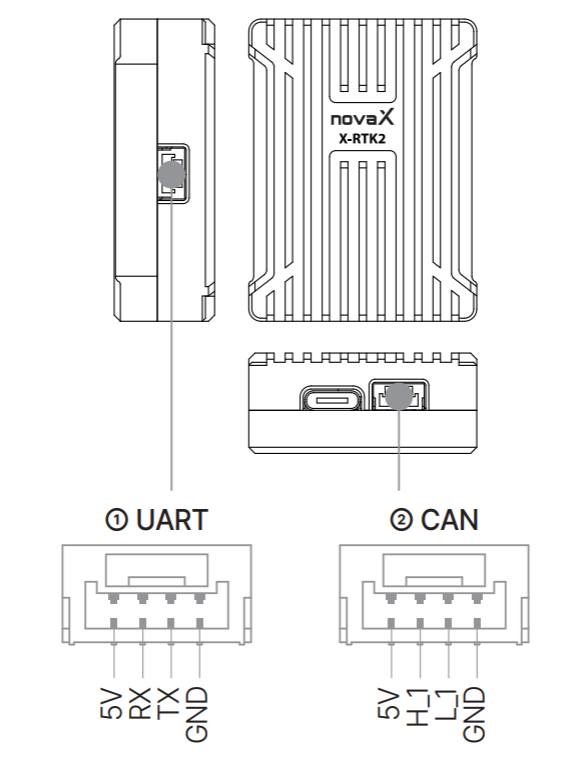
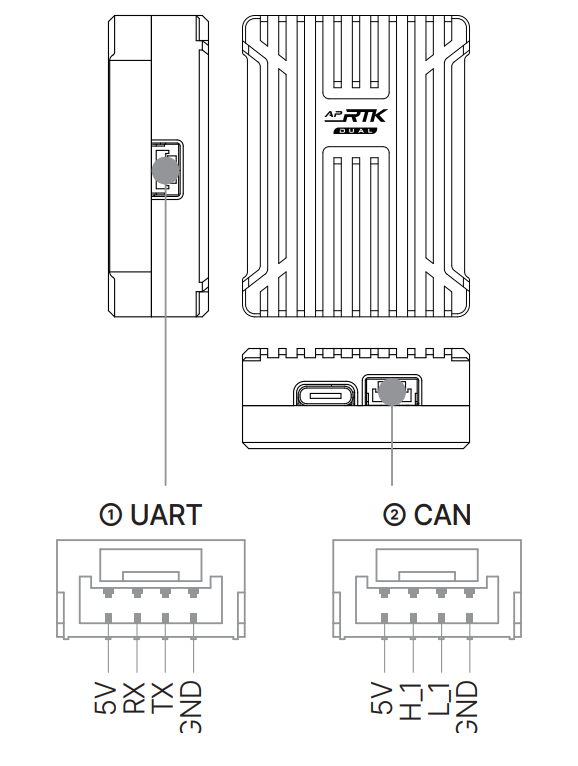
content(AP-RTK dual): 제품·핀아웃·설정 이미지 교체
- 메인 제품사진: AP-RTK dual 기기 3D 렌더(배경투명)로 교체
  (image: gnss_X_RTK2.png -> gnss_AP-RTK-dual_device.png)
- 핀아웃: UART(5V/RX/TX/GND)·CAN(5V/H/L/GND) 신규 도면으로 교체
- 설정 이미지: RTK+FC+안테나 합성 삽화를 둘로 분할
  · 위쪽 = 안테나 배치/듀얼안테나 헤딩 -> antenna-setup
  · 아래쪽 = 무빙베이스라인 오프셋 부호규약 -> offset-convention
- npm build 통과(29p), 4개 이미지 dist 반영 확인

diff --git a/src/content/gnss/AP-RTK-dual.md b/src/content/gnss/AP-RTK-dual.md
@@ -1,7 +1,7 @@
 ---
 name: AP-RTK dual
 tagline: Dual-Antenna High-Precision RTK GNSS
-image: /images/products/gnss_X_RTK2.png
+image: /images/products/gnss_AP-RTK-dual_device.png
 pictureKey: gnss_X_RTK2
 pinoutImage: /images/products/gnss_AP-RTK-dual_pinout.png
 pinoutNotes: '① UART (5V · RX · TX · GND) · ② CAN (5V · CAN_H · CAN_L · GND).'
